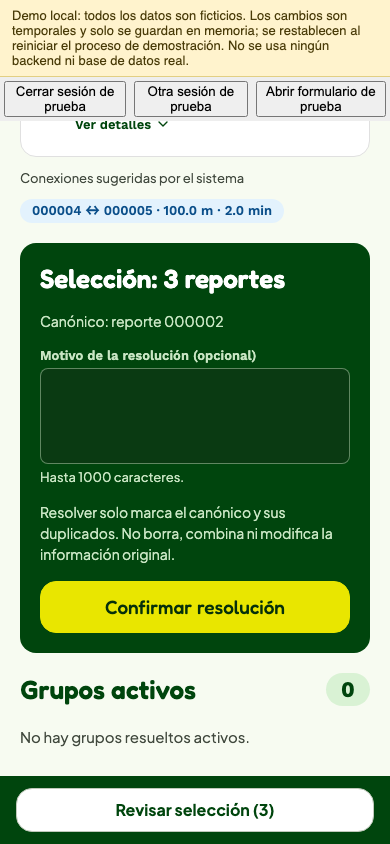
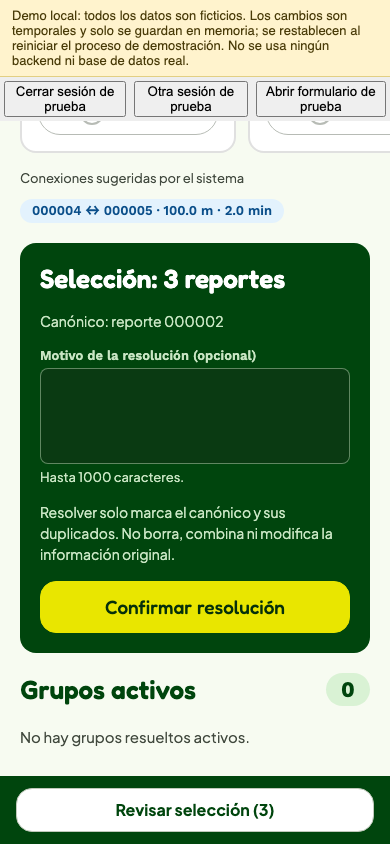
style(design): TD-134 Duplicados: sugerencias como tiras de tarjetas comparables
Cada sugerencia es una tira horizontal deslizable de tarjetas con los mismos datos en el mismo lugar, casilla arriba y píldora Canónico abajo; la tira llega al borde de la pantalla. Leyenda del canónico una sola vez. Misma lógica y contrato.

Changed region(s): [[0.1231, 0.1232, 0.5231, 0.1848], [0.7077, 0.154, 1.0, 0.1848], [0.5846, 0.154, 0.6154, 0.1848]]

diff --git a/screens/DuplicateManagementScreen.js b/screens/DuplicateManagementScreen.js
@@ -13,39 +13,42 @@ import { AppButton, AppTextField, Banner, Chip, Icon, Pager, Sheet, StateView } 
 import { colors, fontFamily, layout, radius, spacing, type } from '../theme/index.js';
 /** Suggestions and active groups shown per page. */
 const PAGE_SIZE=3;
+/** Width of a comparison card; the strip snaps to it. */
+const CARD_WIDTH=216;
 /** Last six characters of an id, used as a short label. */
 const short=(id)=>id.slice(-6);
 /** Translates a validation error (`{key, values}`) or returns a string error as is. */
 const errorText=(error,t)=>typeof error==='string'?error:error?t(`duplicates.validation.${error.key}`,error.values):'';
-/** Candidate report as a compact row: checkbox and summary on the left, canonical radio on the right, details folded. */
-function ReportRow({report,selected,canonical,disabled,onToggle,onCanonical,t,last}) {
+/** Candidate report as a comparable card: checkbox on top, the same facts in the same place, canonical pill at the bottom. */
+function ReportCard({report,selected,canonical,disabled,onToggle,onCanonical,t}) {
   const [open,setOpen]=useState(false);
   const label=t('duplicates.report',{id:short(report.id)});
-  const summary=[report.incident_type,report.sighting_type].filter(Boolean).map((value)=>value.replaceAll('_',' ')).join(' · ');
-  return <View style={[styles.row,styles.rowFlex,!last&&styles.rowDivider,selected&&styles.rowSelected]}>
-    <View style={styles.rowMain}>
-      <Pressable testID={`duplicate-select-${report.id}`} accessibilityRole="checkbox" accessibilityLabel={t('duplicates.select',{report:label})}
-        aria-checked={selected} accessibilityState={{checked:selected,disabled}} disabled={disabled} onPress={onToggle} style={styles.selection}>
-        <View style={[styles.box,selected&&styles.boxOn]}>{selected?<Icon name="check" size={16} color={colors.onPrimary} strokeWidth={3}/>:null}</View>
-        <View style={styles.selectionText}>
-          <View style={styles.titleLine}><Text style={styles.label}>{label}</Text><Chip label={t(`moderation.status.${report.status}`)} tone={report.status==='hidden'?'warning':'neutral'}/></View>
-          {summary?<Text style={styles.kind}>{summary}</Text>:null}
-        </View>
-      </Pressable>
-      <Pressable accessibilityRole="button" accessibilityState={{expanded:open}} onPress={()=>setOpen((value)=>!value)} hitSlop={6} style={styles.detailToggle}>
-        <Text style={styles.detailToggleText}>{t(open?'duplicates.hideDetails':'duplicates.showDetails')}</Text><Icon name="down" size={16} color={colors.primary}/>
-      </Pressable>
-      <View style={[styles.details,!open&&styles.hidden]}>
-        <Text selectable style={styles.caption}>ID: {report.id}</Text>
-        {report.client_created_at?<Text style={styles.caption}>{t('duplicates.observed')}: {new Date(report.client_created_at).toLocaleString()}</Text>:null}
-        {report.dog?<Text style={styles.caption}>{t('duplicates.dog')}: {[report.dog.predominant_color,report.dog.size].filter(Boolean).join(' · ')}{typeof report.dog.has_collar==='boolean'?` · ${t('duplicates.collar')}: ${t(report.dog.has_collar?'common.yes':'common.no')}`:''}</Text>:null}
-        {report.location?<Text selectable style={styles.caption}>{t('moderation.exactLocation')}: {report.location.latitude}, {report.location.longitude}</Text>:null}
-        {report.details?Object.entries(report.details).map(([key,value])=><Text key={key} style={styles.caption}>{key.replaceAll('_',' ')}: {typeof value==='object'?JSON.stringify(value):String(value)}</Text>):null}
-      </View>
-      {selected&&!canonical?<Text style={styles.caption}>{t('duplicates.willBeDuplicate')}</Text>:null}
+  const kind=[report.incident_type,report.sighting_type].filter(Boolean).map((value)=>value.replaceAll('_',' ')).join(' · ');
+  const dogLine=report.dog?[report.dog.predominant_color,report.dog.size].filter(Boolean).join(' · '):'';
+  return <View style={[styles.card,selected&&styles.cardSelected]}>
+    <Pressable testID={`duplicate-select-${report.id}`} accessibilityRole="checkbox" accessibilityLabel={t('duplicates.select',{report:label})}
+      aria-checked={selected} accessibilityState={{checked:selected,disabled}} disabled={disabled} onPress={onToggle} style={styles.cardHead}>
+      <View style={[styles.box,selected&&styles.boxOn]}>{selected?<Icon name="check" size={16} color={colors.onPrimary} strokeWidth={3}/>:null}</View>
+      <View style={styles.cardTitle}><Text style={styles.label}>{label}</Text><Chip label={t(`moderation.status.${report.status}`)} tone={report.status==='hidden'?'warning':'neutral'}/></View>
+    </Pressable>
+    <View style={styles.facts}>
+      {kind?<Text style={styles.kind}>{kind}</Text>:null}
+      {dogLine?<Text style={styles.fact}>{dogLine}</Text>:null}
+      {report.client_created_at?<Text style={styles.caption}>{t('duplicates.observed')}: {new Date(report.client_created_at).toLocaleString()}</Text>:null}
     </View>
+    <Pressable accessibilityRole="button" accessibilityState={{expanded:open}} onPress={()=>setOpen((value)=>!value)} hitSlop={6} style={styles.detailToggle}>
+      <Text style={styles.detailToggleText}>{t(open?'duplicates.hideDetails':'duplicates.showDetails')}</Text><Icon name="down" size={16} color={colors.primary}/>
+    </Pressable>
+    <View style={[styles.details,!open&&styles.hidden]}>
+      <Text selectable style={styles.caption}>ID: {report.id}</Text>
+      {report.dog&&typeof report.dog.has_collar==='boolean'?<Text style={styles.caption}>{t('duplicates.collar')}: {t(report.dog.has_collar?'common.yes':'common.no')}</Text>:null}
+      {report.location?<Text selectable style={styles.caption}>{t('moderation.exactLocation')}: {report.location.latitude}, {report.location.longitude}</Text>:null}
+      {report.details?Object.entries(report.details).map(([key,value])=><Text key={key} style={styles.caption}>{key.replaceAll('_',' ')}: {typeof value==='object'?JSON.stringify(value):String(value)}</Text>):null}
+    </View>
+    {selected&&!canonical?<Text style={styles.caption}>{t('duplicates.willBeDuplicate')}</Text>:null}
+    <View style={styles.spacer}/>
     <Pressable testID={`duplicate-canonical-${report.id}`} accessibilityRole="radio" accessibilityLabel={t('duplicates.chooseCanonical',{report:label})}
-      aria-checked={canonical} accessibilityState={{checked:canonical,disabled:disabled||!selected}} disabled={disabled||!selected} onPress={onCanonical} hitSlop={4} style={[styles.canonicalHit,canonical&&styles.canonicalChosenHit,(!selected||disabled)&&styles.dim]}>
+      aria-checked={canonical} accessibilityState={{checked:canonical,disabled:disabled||!selected}} disabled={disabled||!selected} onPress={onCanonical} style={[styles.canonicalHit,canonical&&styles.canonicalChosenHit,(!selected||disabled)&&styles.dim]}>
       <View style={[styles.radio,canonical&&styles.radioOn]}>{canonical?<View style={styles.radioDot}/>:null}</View>
       <Text style={[styles.canonicalText,canonical&&styles.canonicalTextOn]}>{t('duplicates.canonicalShort')}</Text>
     </Pressable>
@@ -129,12 +132,13 @@ export default function DuplicateManagementScreen({accessToken,onBack,api}) {
               {form.error.requestId?<Text selectable style={styles.caption}>{t('zoneSets.requestId')}: {form.error.requestId}</Text>:null}
             </Banner>:null}
             <View style={styles.sectionHeader}><Text accessibilityRole="header" style={styles.sectionTitle}>{t('duplicates.pending')}</Text><Text style={styles.count}>{form.components.length}</Text></View>
-            {!form.components.length?<Text style={styles.bodyText}>{t('duplicates.empty')}</Text>:null}
+            {!form.components.length?<Text style={styles.bodyText}>{t('duplicates.empty')}</Text>:<Text style={styles.caption}>{t('duplicates.canonicalLegend')}</Text>}
             {form.components.slice(currentSuggestionPage*PAGE_SIZE,(currentSuggestionPage+1)*PAGE_SIZE).map((component,sliceIndex)=>{const index=currentSuggestionPage*PAGE_SIZE+sliceIndex;return <View key={component.id} style={styles.group}>
               <Text accessibilityRole="header" style={styles.groupTitle}>{t('duplicates.component',{number:index+1,count:component.reports.length})}</Text>
-              <Text style={styles.caption}>{t('duplicates.canonicalLegend')}</Text>
-              <View style={styles.list}>{component.reports.map((report,i)=><ReportRow key={report.id} report={report} selected={form.ids.includes(report.id)} canonical={form.canonicalId===report.id}
-                disabled={disabled} onToggle={()=>form.toggleReport(report.id)} onCanonical={()=>form.chooseCanonical(report.id)} t={t} last={i===component.reports.length-1}/>)}</View>
+              <ScrollView horizontal style={styles.bleed} showsHorizontalScrollIndicator={false} snapToInterval={CARD_WIDTH+spacing.md} decelerationRate="fast" contentContainerStyle={styles.strip}>
+                {component.reports.map((report)=><ReportCard key={report.id} report={report} selected={form.ids.includes(report.id)} canonical={form.canonicalId===report.id}
+                  disabled={disabled} onToggle={()=>form.toggleReport(report.id)} onCanonical={()=>form.chooseCanonical(report.id)} t={t}/>)}
+              </ScrollView>
               <Text style={styles.caption}>{t('duplicates.links')}</Text>
               <View style={styles.links}>{form.snapshot.candidates.filter((edge)=>component.reports.some((r)=>r.id===edge.report_a)&&component.reports.some((r)=>r.id===edge.report_b)).map((edge)=><Chip key={edge.id} tone="info" label={`${short(edge.report_a)} ↔ ${short(edge.report_b)}${Number.isFinite(edge.distance_meters)?` · ${edge.distance_meters.toFixed(1)} m`:''}${Number.isFinite(edge.minutes_apart)?` · ${edge.minutes_apart.toFixed(1)} min`:''}`}/>)}</View>
             </View>;})}
@@ -206,17 +210,19 @@ const styles=StyleSheet.create({
   count:{fontFamily:fontFamily.number,fontVariant:['tabular-nums'],fontSize:22,color:colors.primary,backgroundColor:colors.primarySoft,borderRadius:radius.pill,minWidth:44,textAlign:'center',paddingHorizontal:spacing.md,paddingVertical:spacing.xs},
   group:{gap:spacing.md},groupTitle:{fontFamily:fontFamily.displayMedium,fontSize:20,lineHeight:26,color:colors.ink},
   list:{backgroundColor:colors.surface,borderRadius:radius.lg,borderWidth:1,borderColor:colors.border,overflow:'hidden'},
-  row:{padding:spacing.lg,gap:spacing.xs},rowDivider:{borderBottomWidth:1,borderBottomColor:colors.border},rowSelected:{backgroundColor:colors.primarySoft,borderLeftWidth:4,borderLeftColor:colors.primary},
-  selection:{flexDirection:'row',flexWrap:'wrap',alignItems:'center',gap:spacing.md,minHeight:layout.minTouch},
+  row:{padding:spacing.lg,gap:spacing.xs},rowDivider:{borderBottomWidth:1,borderBottomColor:colors.border},
+  bleed:{marginHorizontal:-layout.margin},strip:{gap:spacing.md,paddingHorizontal:layout.margin,paddingBottom:spacing.xs},
+  card:{width:CARD_WIDTH,backgroundColor:colors.surface,borderRadius:radius.lg,borderWidth:2,borderColor:colors.border,padding:spacing.lg,gap:spacing.sm},
+  cardSelected:{borderColor:colors.primary,backgroundColor:colors.primarySoft},
+  cardHead:{flexDirection:'row',alignItems:'center',gap:spacing.md,minHeight:layout.minTouch},cardTitle:{flex:1,gap:spacing.xs,alignItems:'flex-start'},
+  facts:{gap:2},fact:{fontFamily:fontFamily.labelMedium,fontSize:14,lineHeight:20,color:colors.ink},spacer:{flexGrow:1},
+  detailToggle:{flexDirection:'row',alignItems:'center',gap:spacing.xs,minHeight:32,alignSelf:'flex-start'},detailToggleText:{fontFamily:fontFamily.label,fontSize:13,color:colors.primary},details:{gap:2},hidden:{display:'none'},
   box:{width:26,height:26,borderRadius:6,borderWidth:2,borderColor:colors.outline,backgroundColor:colors.surface,alignItems:'center',justifyContent:'center'},boxOn:{backgroundColor:colors.primary,borderColor:colors.primary},
-  label:{fontFamily:fontFamily.label,fontSize:15,lineHeight:22,color:colors.ink,flexShrink:1},kind:{fontFamily:fontFamily.labelMedium,fontSize:14,lineHeight:20,color:colors.ink},
+  label:{fontFamily:fontFamily.label,fontSize:15,lineHeight:22,color:colors.ink,flexShrink:1},kind:{fontFamily:fontFamily.label,fontSize:14,lineHeight:20,color:colors.ink},
   caption:{...type.caption,color:colors.inkMuted},bodyText:{...type.body,fontSize:15,lineHeight:22,color:colors.inkMuted},
-  rowFlex:{flexDirection:'row',alignItems:'flex-start',gap:spacing.md},rowMain:{flex:1,gap:spacing.xs},selectionText:{flex:1,gap:2},titleLine:{flexDirection:'row',alignItems:'center',flexWrap:'wrap',gap:spacing.sm},
-  detailToggle:{flexDirection:'row',alignItems:'center',gap:spacing.xs,minHeight:32,alignSelf:'flex-start',marginLeft:38},detailToggleText:{fontFamily:fontFamily.label,fontSize:13,color:colors.primary},details:{marginLeft:38,gap:2},hidden:{display:'none'},
-  canonicalHit:{flexDirection:'row',alignItems:'center',gap:spacing.xs,minHeight:layout.minTouch,paddingHorizontal:spacing.md,borderRadius:radius.pill,borderWidth:1,borderColor:colors.outline,backgroundColor:colors.surface,alignSelf:'flex-start'},canonicalChosenHit:{backgroundColor:colors.primary,borderColor:colors.primary},
-  canonicalX:{flexDirection:'row',alignItems:'center',gap:spacing.md,minHeight:layout.minTouch,borderTopWidth:1,borderTopColor:colors.border,marginTop:spacing.sm},
+  canonicalHit:{flexDirection:'row',alignItems:'center',justifyContent:'center',gap:spacing.sm,minHeight:layout.minTouch,borderRadius:radius.pill,borderWidth:1,borderColor:colors.outline,backgroundColor:colors.surface},canonicalChosenHit:{backgroundColor:colors.primary,borderColor:colors.primary},
   radio:{width:24,height:24,borderRadius:12,borderWidth:2,borderColor:colors.outline,alignItems:'center',justifyContent:'center',backgroundColor:colors.surface},radioOn:{borderColor:colors.onPrimary,backgroundColor:colors.primary},radioDot:{width:12,height:12,borderRadius:6,backgroundColor:colors.onPrimary},
-  canonicalText:{fontFamily:fontFamily.label,fontSize:13,color:colors.primary},canonicalTextOn:{color:colors.onPrimary},dim:{opacity:0.5},pressed:{opacity:0.7},
+  canonicalText:{fontFamily:fontFamily.label,fontSize:14,color:colors.primary},canonicalTextOn:{color:colors.onPrimary},dim:{opacity:0.5},pressed:{opacity:0.7},
   links:{flexDirection:'row',flexWrap:'wrap',gap:spacing.sm},
   decision:{backgroundColor:colors.primary,borderRadius:radius.lg,padding:spacing.xl,gap:spacing.lg},
   decisionTitle:{fontFamily:fontFamily.display,fontSize:26,lineHeight:32,color:colors.onPrimary},decisionText:{...type.body,fontSize:14,lineHeight:21,color:colors.onForest},
